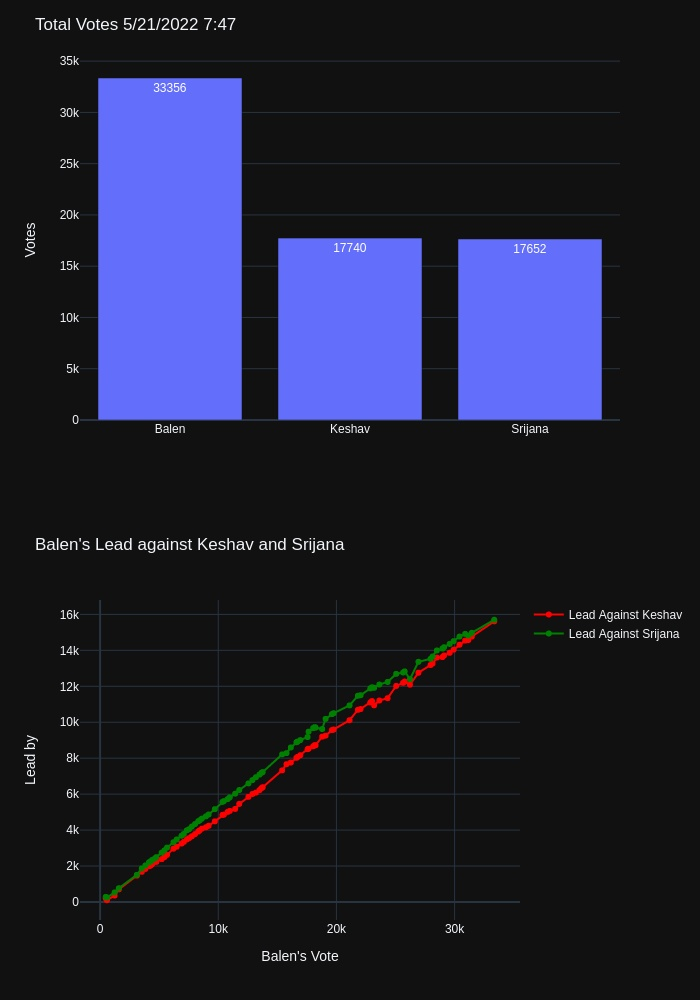
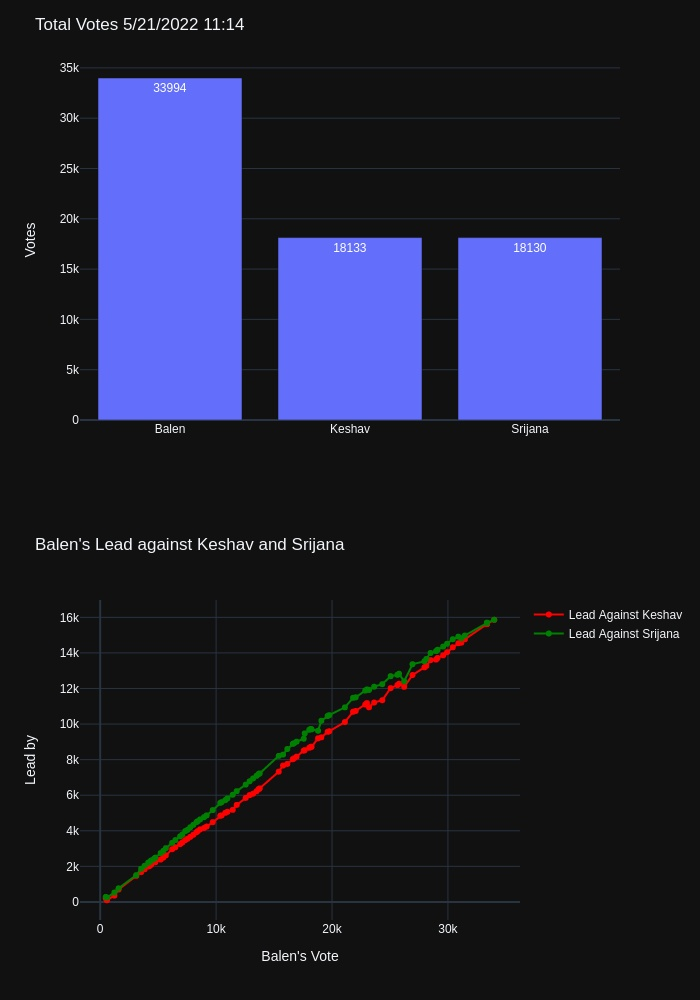
add data

diff --git a/README.md b/README.md
@@ -1,4 +1,4 @@
-## Last Update: 5/21/2022 7:47
+## Last Update: 5/21/2022 11:14
 
 ## Balen's Lead against Keshav Sthapit and Srijana Singh
 ![ScreenShot](final.jpg)
